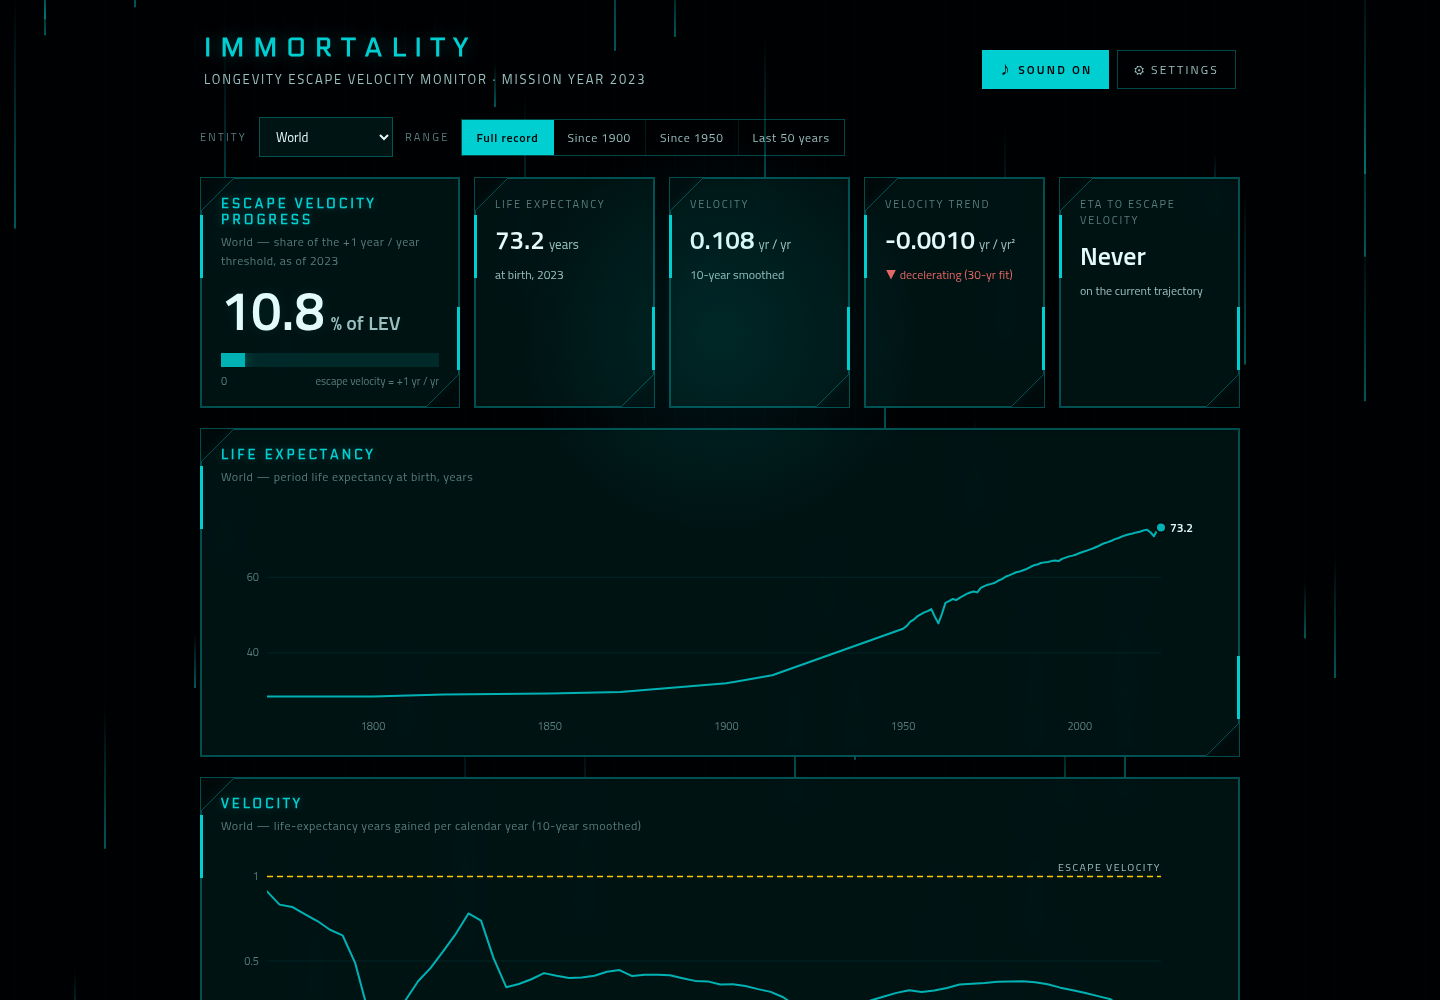
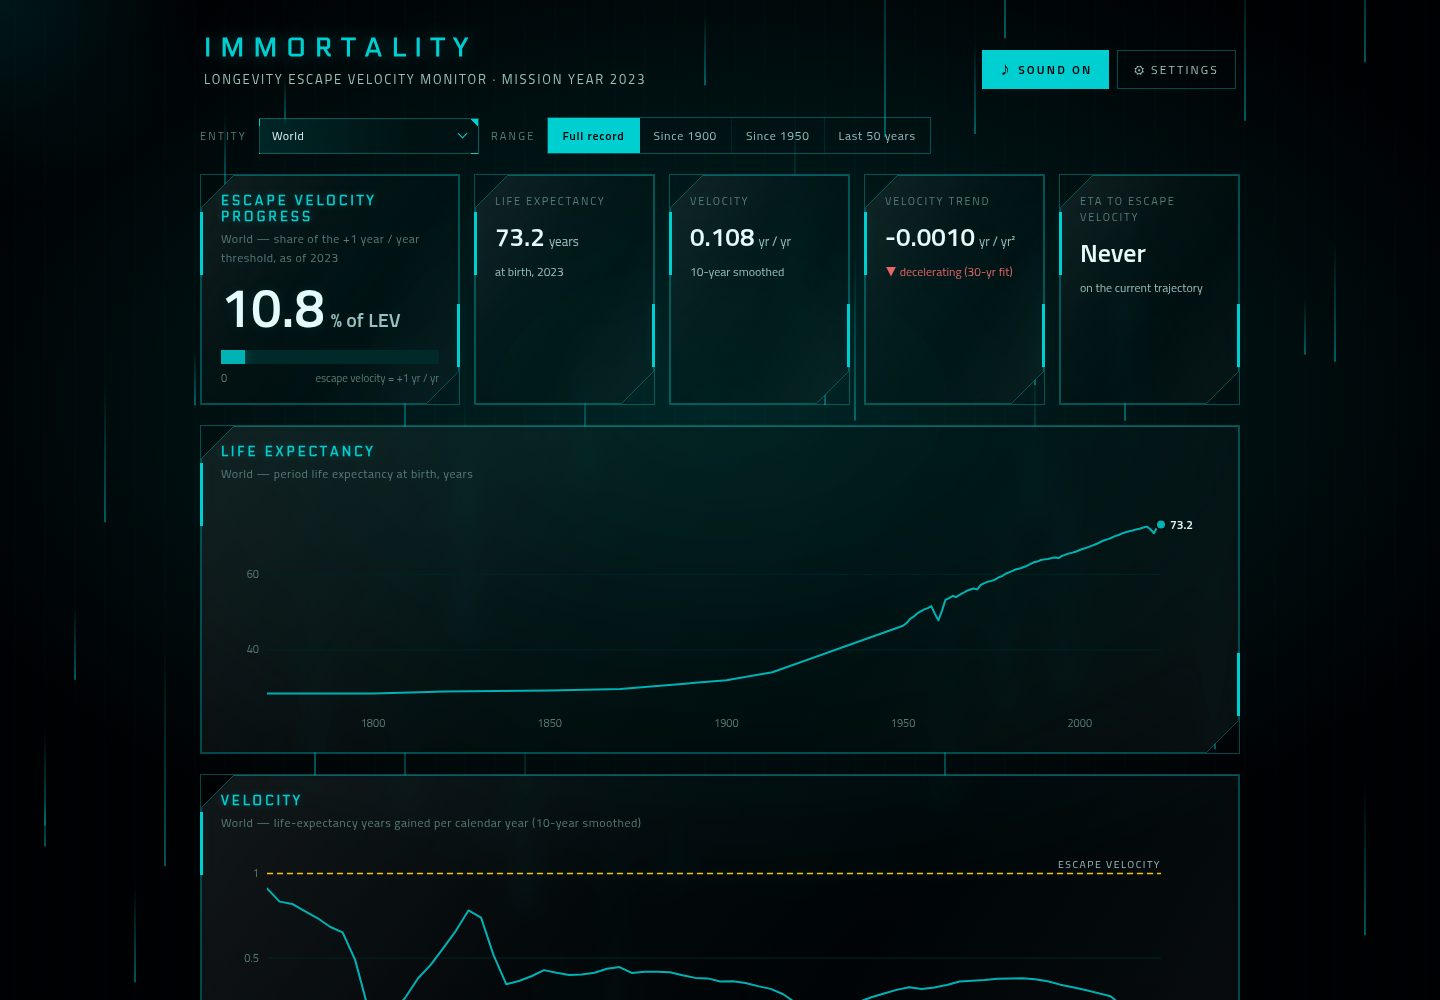
docs: refresh README UI section and screenshots for issue #7 (Poseidon default, materials, audio map)

diff --git a/experiments/preset-gallery.js b/experiments/preset-gallery.js
@@ -1,17 +1,24 @@
-// Renders every UI preset, the settings drawer, both intros and a mobile view.
-// Usage: start `npm run dev -- --port 5179` in app/, then run this file with the
-// Playwright MCP `browser_run_code_unsafe` tool (filename: experiments/preset-gallery.js).
+// Renders every UI preset, the settings drawer tabs, both intros, a mobile view and the
+// issue #7 views (panel materials, skinned dropdown, data table).
+// Usage: start `npm run dev -- --port 5179` in app/, set `root` below to your checkout,
+// then run this file with the Playwright MCP `browser_run_code_unsafe` tool
+// (filename: experiments/preset-gallery.js).
 async (page) => {
+  const root = '/tmp/gh-issue-solver-1792691378975';
   const base = 'http://localhost:5179/';
-  const out = '/tmp/gh-issue-solver-1792674524779/docs/screenshots/';
-  const key = 'immortality.ui-settings.v1';
+  const out = `${root}/docs/screenshots/`;
+  const key = 'immortality.ui-settings.v2';
   const settle = (ms) => page.waitForTimeout(ms);
 
   await page.setViewportSize({ width: 1440, height: 1000 });
   await page.goto(base);
-  const presets = await page.evaluate(async () => {
+  const { presets, defaults, surfaces } = await page.evaluate(async () => {
     const mod = await import('/src/settings.ts');
-    return mod.PRESETS.map((p) => ({ id: p.id, settings: p.settings }));
+    return {
+      presets: mod.PRESETS.map((p) => ({ id: p.id, settings: p.settings })),
+      defaults: mod.DEFAULT_SETTINGS,
+      surfaces: mod.SURFACES.map((s) => ({ id: s.id, label: s.label })),
+    };
   });
 
   const load = async (settings) => {
@@ -22,38 +29,92 @@ async (page) => {
   };
 
   const shots = [];
+  const shot = async (name, options = {}) => {
+    await page.mouse.move(2, 2);
+    await page.screenshot({ path: `${out}${name}`, ...options });
+    shots.push(name);
+  };
+
   for (const preset of presets) {
     await load({ ...preset.settings, intro: 'none' });
     await settle(3500);
-    await page.screenshot({ path: `${out}preset-${preset.id}.png` });
-    shots.push(`preset-${preset.id}.png`);
+    await shot(`preset-${preset.id}.png`);
   }
+  // The default look doubles as the README hero image.
+  await load({ ...defaults, intro: 'none' });
+  await settle(3500);
+  await shot('dashboard-world.png');
 
-  const mission = presets.find((p) => p.id === 'mission').settings;
-  await load({ ...mission, intro: 'none' });
+  // Every panel material side by side, painted with the same layers as the panels.
+  await page.evaluate((list) => {
+    const grid = document.createElement('div');
+    grid.id = 'material-sheet';
+    grid.style.cssText =
+      'position:fixed;inset:0;z-index:100;display:grid;gap:14px;padding:28px;' +
+      'grid-template-columns:repeat(5,1fr);align-content:start;background:var(--page)';
+    for (const { id, label } of list) {
+      const tile = document.createElement('div');
+      tile.className = 'material-swatch';
+      tile.dataset.material = id;
+      tile.style.cssText =
+        'width:auto;height:150px;display:flex;align-items:flex-end;padding:12px;' +
+        'border:1px solid var(--neon-dim);color:var(--text-primary);font-size:13px;' +
+        'letter-spacing:.12em;text-transform:uppercase;text-shadow:0 1px 2px #000';
+      tile.textContent = label;
+      grid.append(tile);
+    }
+    document.querySelector('.app-shell').append(grid);
+  }, surfaces);
+  await settle(300);
+  await shot('materials.png', { clip: { x: 0, y: 0, width: 1440, height: 560 } });
+  await page.evaluate(() => document.getElementById('material-sheet').remove());
+
+  // Skinned dropdown, open.
+  await page.locator('.entity-select .select-button').first().click();
+  await settle(400);
+  await shot('select-open.png', { clip: { x: 0, y: 120, width: 1000, height: 460 } });
+  await page.keyboard.press('Escape');
+
+  // Data table with its sticky header, scrolled.
+  const table = page.locator('.data-table-wrap');
+  await table.scrollIntoViewIfNeeded();
+  await table.evaluate((el) => (el.scrollTop = 160));
+  await settle(300);
+  const box = await table.boundingBox();
+  await shot('data-table.png', {
+    clip: { x: box.x - 40, y: box.y - 110, width: box.width + 80, height: box.height + 150 },
+  });
+
+  // Settings drawer tabs.
+  await load({ ...defaults, intro: 'none' });
   await settle(2500);
   await page.getByRole('button', { name: /settings/i }).first().click();
   await settle(800);
-  await page.screenshot({ path: `${out}settings-drawer.png` });
-  shots.push('settings-drawer.png');
-  await page.getByRole('tab', { name: /scene/i }).click();
-  await settle(500);
-  await page.screenshot({ path: `${out}settings-drawer-scene.png` });
-  shots.push('settings-drawer-scene.png');
+  await shot('settings-drawer.png');
+  for (const [tab, name] of [
+    [/^panels$/i, 'settings-drawer-panels.png'],
+    [/scene/i, 'settings-drawer-scene.png'],
+    [/audio/i, 'settings-drawer-audio.png'],
+  ]) {
+    await page.getByRole('tab', { name: tab }).click();
+    await settle(500);
+    await page.locator('.settings-panel').evaluate((el) => (el.scrollTop = 420));
+    await settle(300);
+    await shot(name);
+  }
 
   for (const intro of ['boot', 'transmission']) {
-    await load({ ...mission, intro });
+    await load({ ...defaults, intro });
     await settle(intro === 'boot' ? 900 : 1500);
-    await page.screenshot({ path: `${out}intro-${intro}.png` });
-    shots.push(`intro-${intro}.png`);
+    await shot(`intro-${intro}.png`);
   }
 
   await page.setViewportSize({ width: 390, height: 844 });
   const zknet = presets.find((p) => p.id === 'zknet').settings;
   await load({ ...zknet, intro: 'none' });
   await settle(3000);
-  await page.screenshot({ path: `${out}mobile-zknet.png` });
-  shots.push('mobile-zknet.png');
+  await shot('mobile-zknet.png');
   await page.setViewportSize({ width: 1440, height: 1000 });
+  await page.evaluate(() => localStorage.clear());
   return shots;
 }

diff --git a/experiments/list-axes.ts b/experiments/list-axes.ts
@@ -1,6 +1,6 @@
 // Prints every UI configuration axis, its options and the presets.
 // Usage (from app/): npx vite-node ../experiments/list-axes.ts
-import { AXES, PRESETS, SETTING_GROUPS, SOUND_EVENTS, SOUND_PRESETS } from '../app/src/settings';
+import { AXES, PRESETS, SETTING_GROUPS, SOUND_EVENTS, SOUNDS } from '../app/src/settings';
 for (const g of SETTING_GROUPS) {
   console.log(`## ${g.label}`);
   for (const a of AXES.filter((x) => x.group === g.id)) {
@@ -9,4 +9,6 @@ for (const g of SETTING_GROUPS) {
   }
 }
 console.log('PRESETS', PRESETS.map((p) => `${p.label} (${p.description})`).join(' | '));
-console.log('SOUNDS', SOUND_EVENTS.length, SOUND_PRESETS.length, AXES.length);
+console.log('SOUNDS', SOUNDS.map((s) => `${s.label} (${s.character})`).join(', '));
+console.log('EVENTS', SOUND_EVENTS.map((e) => e.label).join(', '));
+console.log('AXES', AXES.length);

diff --git a/README.md b/README.md
@@ -37,35 +37,41 @@ next to the dashboard. The axes were collected from
 | Group | Axes |
 | --- | --- |
 | Color | 12 color systems: Mission teal, Glitchy violet, Solar amber, Signal mono, Tron cyan, Ares red, Clu orange, Athena gold, Aphrodite pink, Poseidon blue, Soul cyan, ZK matrix |
-| Panels | glow (none → heavy), frame shape (corner brackets, Arwes Octagon / Kranox / Nefrex SVG frames, lines, underline, HUD bracket, plain), chamfer size, surface (gradient, glass, solid, transparent), density, progress meter (bar, segmented, ring) |
-| Type & text | typeface pairs (system, mono, Orbitron, Electrolize, Chakra Petch, Titillium, terminal), heading case, title effect (decipher, typewriter, glitch) |
-| Scene & overlays | 13 animated backgrounds (stars, grids, galaxy, orbits, asteroids, dot matrix, moving lines, energy puffs, circuit board, data rain, nebula), background intensity, CRT scanlines, scan sweep, vignette, flicker, film grain, pointer illuminator |
-| HUD & charts | status rail, start-up intro (boot sequence or "Intercept incoming transmission?" prompt), chart trace (line, area, neon, step), gridlines |
+| Panels | 13 panel materials (gradient, glass, frosted, flat, transparent, brushed steel, brass, copper, walnut wood, carbon fibre, holographic, black marble, concrete) with material opacity and backdrop blur; glow (none → heavy); frame shape (corner brackets, Arwes Octagon / Kranox / Nefrex SVG frames, lines, underline, HUD bracket, plain); chamfer size; border width; panel shadow; density; progress meter (bar, segmented, ring) |
+| Type & text | typeface pairs (system, mono, Orbitron, Electrolize, Chakra Petch, Titillium, terminal), text size, heading case, title effect (decipher, typewriter with caret, glitch) |
+| Scene & overlays | 18 animated backgrounds (stars, grids, galaxy, orbits, asteroids, dot matrix, moving lines, energy puffs, circuit board, data rain, nebula, aurora curtains, warp drive, hex lattice, radar sweep, constellation network), 7 backdrop gradients, background intensity and speed, CRT scanlines, scan sweep, vignette, flicker, film grain, pointer illuminator |
+| HUD & charts | status rail, start-up intro (boot sequence or "Intercept incoming transmission?" prompt), chart trace (line, area, neon, step), gridlines, line width |
+| Controls & data | skinned dropdowns everywhere, panel hover (glow, lift, light sweep), pointer cursor (crosshair, HUD reticle), data table style (lined, zebra, grid, terminal), scrollbars (thin, HUD rail, block) |
 | Motion | animations, panel entrance (assemble, fade, scan, flicker), staggered reveal, animation speed |
-| Audio | sound on/off, master volume, and a synthesized cue per interaction (hover, click, select, scan, open, typing, intro) |
+| Audio | sound on/off, master volume, tone, room reverb, pitch variation, positional stereo, and several sounds per action (played at random, in turn or layered) chosen from a library of 26 synthesized sounds with neutral names (Quartz, Cobalt, Tungsten, Opal, Sonar, …) for hover, buttons, switches, selections, chart scanner, opening, closing, text effects, intro and notifications |
 
 To find a good combination quickly:
 
-- **Presets** apply a complete look in one click: Mission control (the
-  original dashboard and default), The Grid, Ares, Arwes, Soul Extract,
-  Glitchy, ZK matrix and Quiet.
+- **Presets** apply a complete look in one click: Poseidon (the default),
+  Mission control (the original dashboard), The Grid, Ares, Arwes, Soul
+  Extract, Glitchy, ZK matrix, Foundry (brushed steel and brass), Study
+  (walnut panels and soft wooden sounds) and Quiet.
 - **Randomize** shuffles the visual axes (comfort settings such as motion and
   volume are kept).
 - **Copy share link** puts the current combination into a `#ui=` URL; opening
   it applies and saves those settings, so candidates can be compared and
   shared.
-- **Restore defaults** returns to the original look.
+- **Restore defaults** returns to the default (Poseidon) look.
 
 Preferences are stored locally in the browser. Sound and animation are enabled
 by default; browser autoplay rules mean audio begins after the first
 interaction. `experiments/list-axes.ts` prints the full axis catalog and
 `experiments/preset-gallery.js` re-renders the screenshots below.
 
-| Mission control (default) | The Grid | Ares | Arwes |
+| Poseidon (default) | Mission control | The Grid | Ares |
 | --- | --- | --- | --- |
-| ![Mission control](docs/screenshots/preset-mission.png?raw=true) | ![The Grid](docs/screenshots/preset-grid.png?raw=true) | ![Ares](docs/screenshots/preset-ares.png?raw=true) | ![Arwes](docs/screenshots/preset-arwes.png?raw=true) |
-| **Soul Extract** | **Glitchy** | **ZK matrix** | **Quiet** |
-| ![Soul Extract](docs/screenshots/preset-soulextract.png?raw=true) | ![Glitchy](docs/screenshots/preset-glitchy.png?raw=true) | ![ZK matrix](docs/screenshots/preset-zknet.png?raw=true) | ![Quiet](docs/screenshots/preset-minimal.png?raw=true) |
+| ![Poseidon](docs/screenshots/preset-poseidon.png?raw=true) | ![Mission control](docs/screenshots/preset-mission.png?raw=true) | ![The Grid](docs/screenshots/preset-grid.png?raw=true) | ![Ares](docs/screenshots/preset-ares.png?raw=true) |
+| **Arwes** | **Soul Extract** | **Glitchy** | **ZK matrix** |
+| ![Arwes](docs/screenshots/preset-arwes.png?raw=true) | ![Soul Extract](docs/screenshots/preset-soulextract.png?raw=true) | ![Glitchy](docs/screenshots/preset-glitchy.png?raw=true) | ![ZK matrix](docs/screenshots/preset-zknet.png?raw=true) |
+| **Foundry** | **Study** | **Quiet** | |
+| ![Foundry](docs/screenshots/preset-foundry.png?raw=true) | ![Study](docs/screenshots/preset-study.png?raw=true) | ![Quiet](docs/screenshots/preset-minimal.png?raw=true) | |
+
+![Panel materials](docs/screenshots/materials.png?raw=true)
 
 ![Settings drawer with presets and axis groups](docs/screenshots/settings-drawer.png?raw=true)
 
